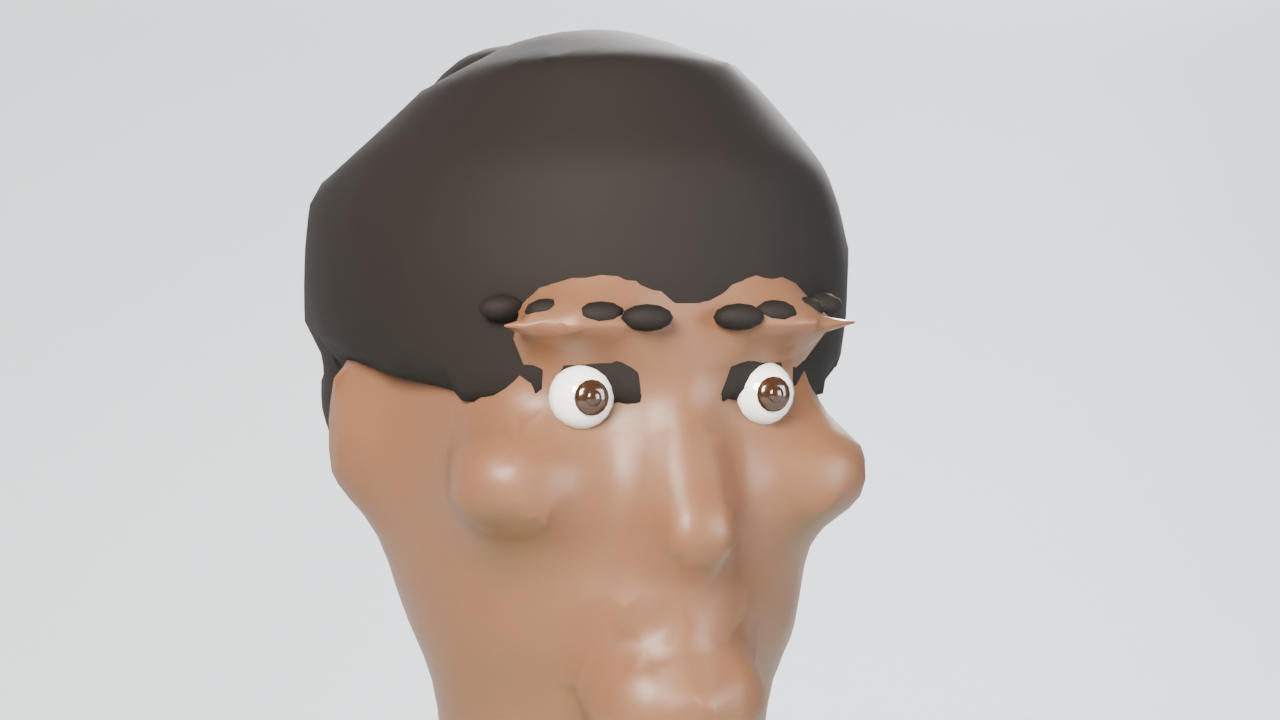
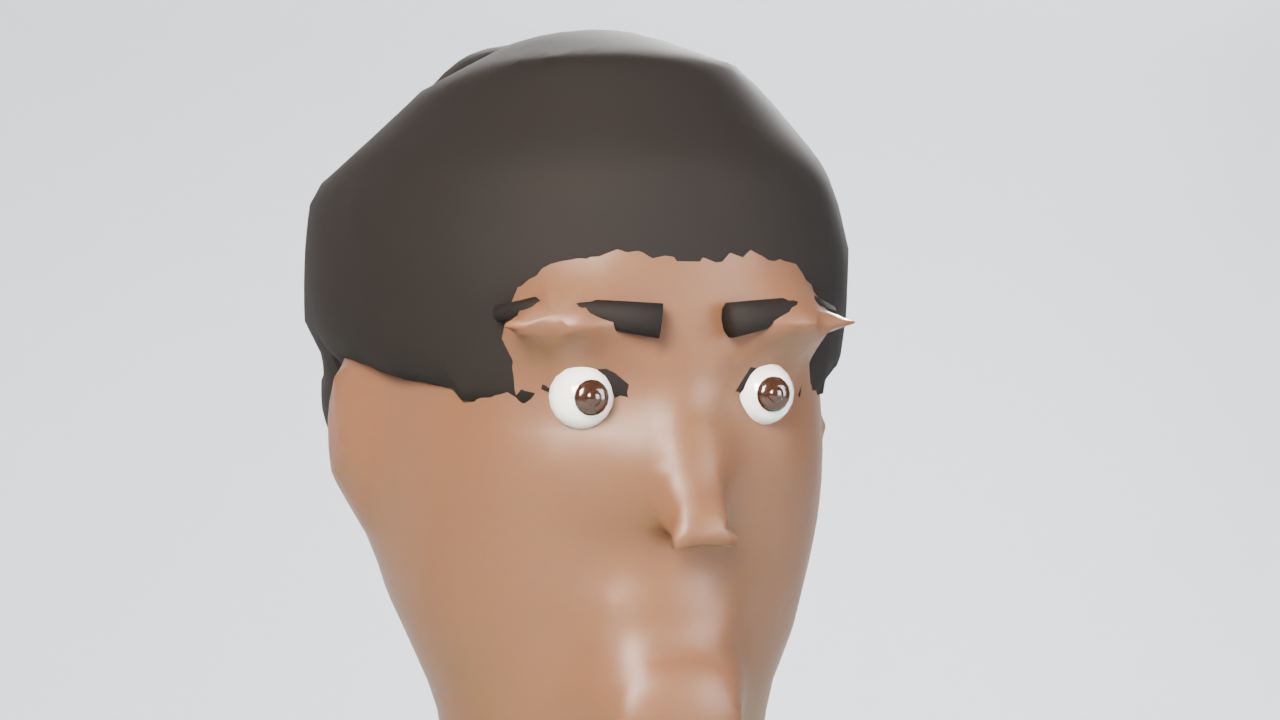
Campaign integration: collage title cards (Swahili pillars 01-03), HOT 70 palette grade, Kigamboni ferry, Inter typography

diff --git a/POSTA_2040/scripts/rendering/brand_cards.py b/POSTA_2040/scripts/rendering/brand_cards.py
@@ -1,0 +1,120 @@
+"""Collage-style title cards in the JIJI IN MOTION campaign look (paint-stroke swooshes in cobalt, orange, yellow, teal;
+bold condensed type with a green highlight block; Swahili + English). Generates animated PNG sequences:
+  renders/card_open/f_####.png   (3.0 s)  — opening title
+  renders/card_close/f_####.png  (5.0 s)  — closing pillars + credit
+Pure Pillow, so it is cheap and crisp. Palette follows the HOT 70 colourways / production palette.
+"""
+import os, math, random, glob
+from PIL import Image, ImageDraw, ImageFont, ImageFilter
+import numpy as np
+ROOT = os.path.abspath(os.path.join(os.path.dirname(__file__), '..', '..'))
+W, H, FPS = 1280, 720, 24
+PAPER = (243, 240, 232); INK = (12, 14, 18); COBALT = (7, 85, 201); ORANGE = (255, 101, 13); YELLOW = (246, 201, 40); TEAL = (0, 198, 168); GREEN = (178, 222, 60); SAGE = (196, 214, 170)
+rng = random.Random(70)
+
+def font(sz, bold=True):
+    cands = glob.glob('/usr/share/fonts/**/InterDisplay-Black.otf', recursive=True) + glob.glob('/usr/share/fonts/**/InterDisplay-ExtraBold.otf', recursive=True) + glob.glob('/usr/share/fonts/**/Inter-Bold.otf', recursive=True) + glob.glob('/usr/share/fonts/**/DejaVuSans-Bold.ttf', recursive=True)
+    return ImageFont.truetype(cands[0], sz)
+
+def paper_texture():
+    im = Image.new('RGB', (W, H), PAPER); a = np.array(im).astype(np.int16)
+    g = np.random.default_rng(1).normal(0, 6, (H, W, 1)).astype(np.int16); a = np.clip(a + g, 0, 255).astype(np.uint8)
+    return Image.fromarray(a)
+
+def swoosh(draw_layer, p0, p1, p2, width, color, progress=1.0, taper=True, speckle=True):
+    """Quadratic bezier brush stroke, drawn with overlapping circles; progress 0..1 reveals the stroke."""
+    n = 260; pts = []
+    for i in range(int(n * progress)):
+        t = i / (n - 1); x = (1 - t) ** 2 * p0[0] + 2 * (1 - t) * t * p1[0] + t ** 2 * p2[0]; y = (1 - t) ** 2 * p0[1] + 2 * (1 - t) * t * p1[1] + t ** 2 * p2[1]
+        w = width * (0.35 + 0.65 * math.sin(math.pi * min(1, t * 1.15))) if taper else width
+        pts.append((x, y, w))
+    for x, y, w in pts:
+        draw_layer.ellipse([x - w / 2, y - w / 2, x + w / 2, y + w / 2], fill=color)
+    if speckle and pts:
+        for x, y, w in pts[::9]:
+            for k in range(3):
+                dx, dy = rng.uniform(-w, w), rng.uniform(-w, w); r = rng.uniform(1, 4)
+                draw_layer.ellipse([x + dx - r, y + dy - r, x + dx + r, y + dy + r], fill=color)
+
+def halftone_band(im, y0, y1, color, spacing=9):
+    d = ImageDraw.Draw(im)
+    for y in range(y0, y1, spacing):
+        t = (y - y0) / max(1, y1 - y0); r = 1.2 + 3.2 * (1 - t)
+        for x in range(0, W, spacing): d.ellipse([x - r, y - r, x + r, y + r], fill=color)
+
+def skyline_silhouette(im, base_y, color, alpha=255, progress=1.0):
+    """Posta 2040 skyline silhouette from the futurised building heights (sampled along x)."""
+    import json
+    prof = os.path.join(ROOT, 'assets', 'textures', 'skyline_profile.json')
+    if os.path.exists(prof): heights = json.load(open(prof))
+    else:
+        rr = random.Random(3); heights = [rr.choice([40, 60, 90, 130, 170, 220, 90, 60, 50]) * rr.uniform(0.7, 1.2) for _ in range(64)]
+    layer = Image.new('RGBA', (W, H), (0, 0, 0, 0)); d = ImageDraw.Draw(layer)
+    n = len(heights); bw = W / n
+    for i, h in enumerate(heights):
+        hh = h * 0.9 * progress; x0 = i * bw
+        d.rectangle([x0 + 1, base_y - hh, x0 + bw - 2, base_y], fill=color + (alpha,))
+        if h > 150: d.polygon([(x0 + bw / 2, base_y - hh - 28 * progress), (x0 + 2, base_y - hh), (x0 + bw - 2, base_y - hh)], fill=color + (alpha,))
+    im.alpha_composite(layer)
+
+def title_block(im, text, xy, size, fill=INK, highlight=None, hl_word=None):
+    d = ImageDraw.Draw(im); f = font(size)
+    if highlight and hl_word and hl_word in text:
+        pre = text[:text.index(hl_word)]; wpre = d.textlength(pre, font=f); whl = d.textlength(hl_word, font=f)
+        d.rectangle([xy[0] + wpre - 6, xy[1] + size * 0.08, xy[0] + wpre + whl + 6, xy[1] + size * 1.0], fill=highlight)
+    d.text(xy, text, font=f, fill=fill)
+
+def ease(t): return 0.5 - 0.5 * math.cos(math.pi * max(0, min(1, t)))
+
+def render_open(out):
+    os.makedirs(out, exist_ok=True); N = int(3.0 * FPS); base = paper_texture().convert('RGBA')
+    for i in range(N):
+        t = i / FPS; im = base.copy(); layer = Image.new('RGBA', (W, H), (0, 0, 0, 0)); d = ImageDraw.Draw(layer)
+        swoosh(d, (-100, 520), (500, 80), (1380, 420), 150, COBALT + (255,), ease(t / 0.9))
+        swoosh(d, (-60, 650), (640, 330), (1340, 600), 70, ORANGE + (255,), ease((t - 0.25) / 0.9))
+        swoosh(d, (200, 760), (700, 560), (1300, 700), 46, YELLOW + (255,), ease((t - 0.45) / 0.8))
+        swoosh(d, (-40, 300), (400, 200), (900, 60), 26, TEAL + (255,), ease((t - 0.6) / 0.7))
+        im.alpha_composite(layer)
+        skyline_silhouette(im, 600, INK, 255, ease((t - 0.8) / 1.0))
+        a = ease((t - 1.3) / 0.7)
+        if a > 0:
+            txt = Image.new('RGBA', (W, H), (0, 0, 0, 0)); title_block(txt, 'JIJI IN MOTION', (70, 70 + int(40 * (1 - a))), 104, INK, GREEN, 'MOTION')
+            ImageDraw.Draw(txt).text((74, 190 + int(40 * (1 - a))), 'THE FUTURE IS BUILT IN CODE', font=font(30), fill=COBALT)
+            ImageDraw.Draw(txt).text((74, 232 + int(40 * (1 - a))), 'Posta · Dar es Salaam · 2040', font=font(22), fill=INK)
+            txt.putalpha(txt.getchannel('A').point(lambda v: int(v * a))); im.alpha_composite(txt)
+        # fade out last 0.4 s to black (next shot opens at ground level)
+        fo = max(0.0, (t - 2.6) / 0.4)
+        if fo: im = Image.blend(im, Image.new('RGBA', (W, H), (0, 0, 0, 255)), fo)
+        im.convert('RGB').save(os.path.join(out, f'f_{i+1:04d}.png'))
+    print('open card', N, 'frames')
+
+def render_close(out):
+    os.makedirs(out, exist_ok=True); N = int(5.0 * FPS); base = paper_texture().convert('RGBA')
+    pillars = [('01', 'MAISHA YA MIJI YA TZ', 'Tanzanian city elements — the real Posta map, Kivukoni, the harbour'),
+               ('02', 'RANGI ZA HOT 70', 'Colour drawn from the Infinix HOT 70 colourways'),
+               ('03', 'MTAZAMO NA UBUNIFU WAKO', 'Personal signature — code, procedural art, Dar es Salaam')]
+    for i in range(N):
+        t = i / FPS; im = base.copy(); layer = Image.new('RGBA', (W, H), (0, 0, 0, 0)); d = ImageDraw.Draw(layer)
+        swoosh(d, (1400, 120), (800, 380), (-100, 240), 120, COBALT + (255,), ease(t / 0.8))
+        swoosh(d, (1340, 700), (700, 500), (-60, 680), 60, ORANGE + (255,), ease((t - 0.2) / 0.8))
+        swoosh(d, (1300, 40), (900, 160), (300, -40), 30, YELLOW + (255,), ease((t - 0.4) / 0.7))
+        im.alpha_composite(layer)
+        halftone_band(im, 560, 720, SAGE)
+        txt = Image.new('RGBA', (W, H), (0, 0, 0, 0)); dd = ImageDraw.Draw(txt)
+        for k, (num, sw, en) in enumerate(pillars):
+            a = ease((t - 0.6 - k * 0.45) / 0.6)
+            if a <= 0: continue
+            y = 90 + k * 140; x = 90 + int(30 * (1 - a))
+            dd.text((x, y), num, font=font(54), fill=[COBALT, ORANGE, TEAL][k]); dd.text((x + 90, y + 4), sw, font=font(40), fill=INK)
+            dd.text((x + 92, y + 58), en, font=font(22), fill=(60, 64, 72))
+            dd.line([(x, y + 110), (x + 900, y + 110)], fill=INK, width=2)
+        a = ease((t - 2.4) / 0.6)
+        if a > 0:
+            title_block(txt, 'JIJI IN MOTION', (90, 540), 64, INK, GREEN, 'MOTION'); dd.text((94, 620), 'A film built in code by tito-devsec  ·  Map data © OpenStreetMap contributors', font=font(20), fill=INK)
+        txt.putalpha(txt.getchannel('A').point(lambda v: int(v * min(1, ease(t / 0.6))))); im.alpha_composite(txt)
+        fi = min(1.0, t / 0.5); im = Image.blend(Image.new('RGBA', (W, H), (0, 0, 0, 255)), im, fi)
+        im.convert('RGB').save(os.path.join(out, f'f_{i+1:04d}.png'))
+    print('close card', N, 'frames')
+
+if __name__ == '__main__':
+    render_open(os.path.join(ROOT, 'renders', 'card_open')); render_close(os.path.join(ROOT, 'renders', 'card_close'))

diff --git a/POSTA_2040/scripts/assets/build_characters.py b/POSTA_2040/scripts/assets/build_characters.py
@@ -17,6 +17,7 @@ OUT_BLEND = os.path.join(ROOT, 'blender', 'assets', 'characters.blend')
 PREV = os.path.join(ROOT, 'previews')
 NORENDER = '--norender' in sys.argv
 QUICK = '--quick' in sys.argv
+LOWS = '--lowsamples' in sys.argv or QUICK
 
 # ----------------------------------------------------------------------------- scene reset
 def reset_scene():
@@ -197,7 +198,7 @@ class Body:
         s = self.s
         self.H = height
         self.z = dict(top=1.75, chin=1.52, jaw=1.56, eye=1.638, nose=1.604, mouth=1.556,
-                      neck_base=1.44, shoulder=1.405, nipple=1.27, waist=1.07, navel=1.04,
+                      neck_base=1.45, shoulder=1.415, nipple=1.27, waist=1.07, navel=1.04,
                       hip=0.90, crotch=0.80, knee=0.47, ankle=0.08, elbow=1.12, wrist=0.845)
         for k in self.z: self.z[k] *= s
         sw = shoulder * (0.93 if female else 1.0)
@@ -283,32 +284,31 @@ def body_shape(B, offset=0.0, parts=('torso', 'arms', 'legs', 'head', 'hands', '
                 S.ellipsoid((sd * 0.078 * s, 0.085 * s, z['nipple'] + 0.005 * s), (0.065 * s + o, 0.055 * s + o, 0.06 * s + o))
         # glutes
         for sd in (-1, 1):
-            S.ellipsoid((sd * 0.085 * s * hw, -0.075 * s, z['hip'] - 0.015 * s), (0.1 * s + o, 0.085 * s + o, 0.11 * s + o))
+            S.ellipsoid((sd * 0.07 * s * hw, -0.07 * s, z['hip'] - 0.015 * s), (0.09 * s + o, 0.085 * s + o, 0.1 * s + o))
         # neck
         S.loft([((0, 0.005 * s, z['neck_base'] - 0.03 * s), 0.065 * s + o, 0.065 * s + o),
                 ((0, 0.01 * s, z['neck_base'] + 0.05 * s), 0.056 * s + o, 0.06 * s + o),
                 ((0, 0.012 * s, z['chin'] + 0.02 * s), 0.06 * s + o, 0.065 * s + o)], segs=24)
     if 'head' in parts:
-        hd = [(z['chin'] - 0.004 * s, 0.034, 0.03, 0.04),
-              (z['chin'] + 0.018 * s, 0.062, 0.062, 0.03),
-              (z['jaw'] + 0.012 * s, 0.073, 0.086, 0.012),
-              (z['nose'], 0.077, 0.096, 0.002),
+        hd = [(z['chin'] - 0.004 * s, 0.034, 0.03, 0.038),
+              (z['chin'] + 0.018 * s, 0.062, 0.06, 0.024),
+              (z['jaw'] + 0.012 * s, 0.074, 0.08, 0.008),
+              (z['nose'], 0.078, 0.092, 0.004),
               (z['eye'], 0.079, 0.1, -0.002),
               (z['eye'] + 0.045 * s, 0.078, 0.099, -0.005),
               (z['top'] - 0.04 * s, 0.07, 0.09, -0.009),
               (z['top'] - 0.012 * s, 0.046, 0.062, -0.013),
               (z['top'], 0.012, 0.016, -0.016)]
-        S.loft([((0, cy * s, zz), rx * s + o, ry * s + o) for (zz, rx, ry, cy) in hd], segs=32)
+        S.loft([((0, cy * s, zz), rx * s * 1.04 + o, ry * s * 1.03 + o) for (zz, rx, ry, cy) in hd], segs=32)
         if offset == 0.0:
             # nose, chin, ears, brow ridge, cheeks
-            S.ellipsoid((0, 0.096 * s, z['nose'] + 0.004 * s), (0.012 * s, 0.016 * s, 0.024 * s), rot=('X', math.radians(-16)))  # nose dorsum
-            S.ellipsoid((0, 0.108 * s, z['nose'] - 0.014 * s), (0.017 * s, 0.013 * s, 0.011 * s))  # tip + alae
-            S.ellipsoid((0, 0.085 * s, z['chin'] + 0.014 * s), (0.034 * s, 0.028 * s, 0.026 * s))  # chin
-            S.ellipsoid((0, 0.09 * s, z['mouth'] - 0.012 * s), (0.028 * s, 0.014 * s, 0.011 * s))  # lower lip
-            S.ellipsoid((0, 0.09 * s, z['mouth'] + 0.009 * s), (0.026 * s, 0.012 * s, 0.008 * s))  # upper lip
+            S.ellipsoid((0, 0.096 * s, z['nose'] + 0.006 * s), (0.011 * s, 0.015 * s, 0.021 * s), rot=('X', math.radians(-18)))  # nose dorsum
+            S.ellipsoid((0, 0.107 * s, z['nose'] - 0.012 * s), (0.016 * s, 0.012 * s, 0.01 * s))  # tip + alae
+            S.ellipsoid((0, 0.072 * s, z['chin'] + 0.012 * s), (0.032 * s, 0.028 * s, 0.024 * s))  # chin
+            S.ellipsoid((0, 0.08 * s, z['mouth'] - 0.011 * s), (0.027 * s, 0.013 * s, 0.01 * s))  # lower lip
+            S.ellipsoid((0, 0.081 * s, z['mouth'] + 0.008 * s), (0.025 * s, 0.011 * s, 0.007 * s))  # upper lip
             for sd in (-1, 1):
                 S.ellipsoid((sd * 0.083 * s, -0.012 * s, z['eye'] - 0.02 * s), (0.012 * s, 0.018 * s, 0.03 * s))  # ear
-                S.ellipsoid((sd * 0.05 * s, 0.07 * s, z['eye'] - 0.03 * s), (0.028 * s, 0.026 * s, 0.022 * s))  # cheekbone (mostly buried)
                 S.ellipsoid((sd * 0.034 * s, 0.09 * s, z['eye'] + 0.02 * s), (0.03 * s, 0.014 * s, 0.009 * s))  # brow ridge
     if 'arms' in parts:
         for sd in (-1, 1):
@@ -363,7 +363,7 @@ def sculpt_face(ob, B):
     s, z = B.s, B.z
     for sd in (-1, 1):
         displace_gaussian(ob, (sd * 0.032 * s, 0.098 * s, z['eye']), (0.018 * s, 0.025 * s, 0.011 * s), 0.009 * s)
-    displace_gaussian(ob, (0, 0.1 * s, z['mouth']), (0.02 * s, 0.025 * s, 0.0035 * s), 0.005 * s)
+    displace_gaussian(ob, (0, 0.092 * s, z['mouth']), (0.02 * s, 0.025 * s, 0.0035 * s), 0.005 * s)
     # temples slightly in, philtrum
     for sd in (-1, 1):
         displace_gaussian(ob, (sd * 0.08 * s, 0.045 * s, z['eye'] + 0.02 * s), (0.02 * s, 0.03 * s, 0.03 * s), 0.004 * s)
@@ -380,10 +380,11 @@ def head_accessories(B, col, prefix, mats, hair='short', female=False):
         S = Shape(); S.ellipsoid((sd * 0.032 * s, 0.0923 * s, z['eye']), (0.006 * s, 0.0025 * s, 0.006 * s), segs=16, rings=8)
         S.ellipsoid((sd * 0.032 * s, 0.094 * s, z['eye']), (0.003 * s, 0.0015 * s, 0.003 * s), segs=12, rings=6)
         iris = S.to_object(f'{prefix}_iris.{nm}', col); shade_smooth(iris); iris.data.materials.append(mats['iris'])
-        S = Shape()
-        for k, bx in enumerate((0.016, 0.03, 0.044, 0.056)):
-            by = 0.1 * s * math.sqrt(max(0.0, 1 - (bx / 0.08) ** 2)) + 0.003 * s
-            S.ellipsoid((sd * bx * s, by, z['eye'] + (0.026 + 0.001 * k) * s), (0.009 * s, 0.006 * s, 0.0045 * s), segs=10, rings=6)
+        S = Shape(); bp = []
+        for k, bx in enumerate((0.012, 0.024, 0.036, 0.048, 0.058)):
+            by = 0.103 * s * math.sqrt(max(0.0, 1 - (bx / 0.083) ** 2)) + 0.001 * s
+            bp.append(((sd * bx * s, by, z['eye'] + (0.025 + 0.0015 * k - 0.004 * (k == 4)) * s), 0.0045 * s, (0.006 - 0.0008 * k) * s))
+        S.loft(bp, segs=10, vhint=(0, 0, 1))
         brow = S.to_object(f'{prefix}_brow.{nm}', col); shade_smooth(brow); brow.data.materials.append(mats['hair'])
         out += [(eye, 'head'), (iris, 'head'), (brow, 'head')]
     # hair cap: loft following the cranium, slightly inflated, hairline pulled back
@@ -515,7 +516,7 @@ def shirt(B, col, prefix, mat, sleeves='short', hem=None, off=0.016, neck=True):
     s, z = B.s, B.z
     hem = hem if hem is not None else z['hip'] - 0.01 * s
     top = z['neck_base'] + (0.012 * s if neck else -0.015 * s)
-    S = torso_shell(Shape(), B, off, hem, top, deltoids=bool(sleeves), breasts=True, hips_extra=0.012 * s)
+    S = torso_shell(Shape(), B, off, hem, top, deltoids=bool(sleeves), breasts=True, hips_extra=0.024 * s)
     ob = S.to_object(f'{prefix}_shirt', col)
     # sleeves
     if sleeves:
@@ -541,7 +542,7 @@ def trousers(B, col, prefix, mat, length=1.0, off=0.012, waist=None):
     S = Shape()
     hw = B.hw
     waist = waist if waist is not None else z['hip'] + 0.09 * s
-    torso_shell(S, B, off * 0.7, z['crotch'] - 0.01 * s, waist, n=8, deltoids=False, breasts=False, hips_extra=0.012 * s)
+    torso_shell(S, B, off, z['crotch'] - 0.01 * s, waist, n=8, deltoids=False, breasts=False, hips_extra=0.02 * s)
     for sd in (-1, 1):
         hp = B.mirror(B.hip, sd); kn = B.mirror(B.knee, sd); an = B.mirror(B.ankle, sd)
         pts = [hp + (kn - hp) * t for t in (0.12, 0.35, 0.6, 1.0)]
@@ -826,7 +827,7 @@ def previews(chars):
     for n, x in zip(order, xs):
         chars[n]['root'].location = (x, 0, 0)
     studio()
-    P.setup_render(res=(1280, 720), samples=16 if QUICK else 48, frame_start=1, frame_end=48)
+    P.setup_render(res=(1280, 720), samples=12 if LOWS else 48, frame_start=1, frame_end=48)
     cam = P.add_camera('CAM_LINEUP', loc=(0, 8.5, 1.35), target=(0, 0, 0.92), lens=42)
     render(os.path.join(PREV, 'asset_characters_lineup.png'), 1)
     # hero walk

diff --git a/POSTA_2040/scripts/common/scene_lib.py b/POSTA_2040/scripts/common/scene_lib.py
@@ -181,6 +181,7 @@ def enable_mist(start=200, depth=1500, color=(0.35, 0.5, 0.8, 1), strength=0.7):
     except Exception:
         glare.threshold = 1.2
     nt.links.new(mix.outputs[0], glare.inputs[0]); nt.links.new(glare.outputs[0], comp.inputs[0])
+    add_grade()
 
 def terrain_urban_material():
     """Urban ground: concrete/paving mixed with grass patches by large-scale noise."""
@@ -197,3 +198,50 @@ def snap_to_road(x, y):
     o = bpy.data.objects['CITY_ROAD']; co = np.empty(len(o.data.vertices) * 3); o.data.vertices.foreach_get('co', co); co = co.reshape(-1, 3)
     co = co[co[:, 2] > 2.5]  # keep land roads only (piers excluded)
     i = np.hypot(co[:, 0] - x, co[:, 1] - y).argmin(); return (float(co[i, 0]), float(co[i, 1]), float(co[i, 2]))
+
+def add_ferry(name='FERRY', start=(60, -60), end=(400, -300), F=200, z=0.4, speed_frames=None):
+    """Kigamboni-style passenger ferry (procedural): white hull, blue band, two-deck superstructure, wheelhouse, funnel.
+    Crosses the harbour from start to end over the scene."""
+    import bmesh
+    from mathutils import Vector
+    bm = bmesh.new()
+    # hull: lofted box with pointed bow
+    L, Wd, Hh = 42.0, 11.0, 3.2
+    hull = bmesh.ops.create_cube(bm, size=1.0)['verts']
+    for v in hull:
+        v.co = Vector((v.co.x * Wd, v.co.y * L, (v.co.z + 0.5) * Hh))
+        if v.co.y > 0: v.co.x *= 0.35; v.co.y += 4.0
+    deck = bmesh.ops.create_cube(bm, size=1.0)['verts']
+    for v in deck: v.co = Vector((v.co.x * Wd * 0.9, v.co.y * L * 0.7 - 2, Hh + (v.co.z + 0.5) * 3.0))
+    deck2 = bmesh.ops.create_cube(bm, size=1.0)['verts']
+    for v in deck2: v.co = Vector((v.co.x * Wd * 0.8, v.co.y * L * 0.55 - 3, Hh + 3.0 + (v.co.z + 0.5) * 2.8))
+    wh = bmesh.ops.create_cube(bm, size=1.0)['verts']
+    for v in wh: v.co = Vector((v.co.x * Wd * 0.5, v.co.y * 6 + 6, Hh + 5.8 + (v.co.z + 0.5) * 2.6))
+    bmesh.ops.create_cone(bm, cap_ends=True, segments=12, radius1=1.0, radius2=0.8, depth=4.0, matrix=__import__('mathutils').Matrix.Translation((0, -9, Hh + 5.8 + 2.0)))
+    me = bpy.data.meshes.new(name); bm.to_mesh(me); bm.free()
+    ob = bpy.data.objects.new(name, me); bpy.context.scene.collection.objects.link(ob)
+    white = P.new_mat('MAT_FerryWhite', (0.85, 0.86, 0.84, 1), 0.4); blue = P.new_mat('MAT_FerryBlue', P.PAL['blue'], 0.4)
+    me.materials.append(white); me.materials.append(blue)
+    for p in me.polygons:
+        c = me.vertices[p.vertices[0]].co.z
+        p.material_index = 1 if c < Hh * 0.6 else 0
+    ang = math.atan2(end[1] - start[1], end[0] - start[0]) - math.pi / 2
+    ob.rotation_euler = (0, 0, ang)
+    ob.location = (start[0], start[1], z); ob.keyframe_insert('location', frame=1)
+    ob.location = (end[0], end[1], z); ob.keyframe_insert('location', frame=speed_frames or F)
+    for fc in ob.animation_data.action.fcurves:
+        for kp in fc.keyframe_points: kp.interpolation = 'LINEAR'
+    # wake: flat white translucent strip trailing the hull
+    bpy.ops.mesh.primitive_plane_add(size=1, location=(0, 0, 0)); wk = bpy.context.object; wk.name = name + '_WAKE'
+    wk.scale = (Wd * 0.8, L * 1.6, 1); wk.location = (0, -L * 1.0, 0.05); wk.parent = ob
+    wk.data.materials.append(P.new_mat('MAT_Wake', (1, 1, 1, 1), 0.6, alpha=0.35))
+    return ob
+
+def add_grade(shadows=(0.98, 1.0, 1.05), midtones=(1.0, 1.0, 1.0), highlights=(1.04, 1.01, 0.96)):
+    """HOT 70 palette grade in the compositor: cool teal-blue shadows, warm highlights. Inserts a Color Balance before the Composite."""
+    sc = bpy.context.scene; sc.use_nodes = True; nt = sc.node_tree
+    comp = next(n for n in nt.nodes if n.type == 'COMPOSITE'); src = comp.inputs[0].links[0].from_socket if comp.inputs[0].links else None
+    if src is None: return
+    cb = nt.nodes.new('CompositorNodeColorBalance'); cb.correction_method = 'LIFT_GAMMA_GAIN'
+    cb.lift = tuple(shadows); cb.gamma = tuple(midtones); cb.gain = tuple(highlights)
+    nt.links.new(src, cb.inputs['Image']); nt.links.new(cb.outputs[0], comp.inputs[0])

diff --git a/POSTA_2040/scripts/rendering/edit_film.py b/POSTA_2040/scripts/rendering/edit_film.py
@@ -12,16 +12,19 @@ XF = 0.5  # crossfade seconds between scenes
 def run(cmd): print(' '.join(cmd) if isinstance(cmd, list) else cmd); subprocess.run(cmd, check=True)
 
 clips = []
-for s in cfg['scenes']:
+# title cards (pre-rendered at 24 fps by brand_cards.py) bracket the film
+cards = [{'id': 'card_open', 'title': 'Opening card', 'frames': 72}] + cfg['scenes'] + [{'id': 'card_close', 'title': 'Closing card', 'frames': 120}]
+for s in cards:
     d = os.path.join(R, s['id']); frames = sorted(glob.glob(os.path.join(d, 'f_*.png')))
+    this_step = 1 if s['id'].startswith('card') else step
     if not frames: print('MISSING', s['id']); continue
     lst = os.path.join(TMP, f"{s['id']}.txt")
     with open(lst, 'w') as f:
-        for p in frames: f.write(f"file '{p}'\nduration {step / FPS}\n")
+        for p in frames: f.write(f"file '{p}'\nduration {this_step / FPS}\n")
         f.write(f"file '{frames[-1]}'\n")
     out = os.path.join(TMP, f"{s['id']}.mp4")
     vf = f"scale={W}:{H}:flags=lanczos,format=yuv420p"
-    if step > 1: vf = f"minterpolate=fps={FPS}:mi_mode=mci:mc_mode=aobmc:me_mode=bidir:vsbmc=1," + vf
+    if this_step > 1: vf = f"minterpolate=fps={FPS}:mi_mode=mci:mc_mode=aobmc:me_mode=bidir:vsbmc=1," + vf
     run(['ffmpeg', '-y', '-loglevel', 'error', '-f', 'concat', '-safe', '0', '-i', lst, '-vf', vf, '-r', str(FPS), '-c:v', 'libx264', '-preset', 'medium', '-crf', '17', out])
     clips.append((s, out))
 
@@ -52,7 +55,7 @@ plan = [  # (stem, scene id, offset within scene, gain dB)
     ('stems/s08_camera_ui.wav', 's08', 1.0, -10), ('stems/s08_lens_dive.wav', 's08', 5.5, -6),
     ('stems/s10_fall_splash.wav', 's10', 0.0, -6), ('stems/s11_underwater.wav', 's11', 0.0, -7),
     ('stems/s12_diver.wav', 's12', 0.0, -7), ('stems/s13_ui_share.wav', 's13', 2.0, -10), ('stems/s14_brand_sting.wav', 's14', 0.0, -4),
-    ('music/music_bed.wav', 's01', 0.0, -9),
+    ('music/music_bed.wav', 'card_open', 0.0, -9),
 ]
 ain = []; af = []; mixin = []
 for i, (stem, sid, off, g) in enumerate(plan):

diff --git a/POSTA_2040/scripts/common/posta_lib.py b/POSTA_2040/scripts/common/posta_lib.py
@@ -6,7 +6,7 @@ from mathutils import Vector
 
 ROOT = os.path.abspath(os.path.join(os.path.dirname(__file__), '..', '..'))
 FONT_MONO = '/usr/share/fonts/truetype/jetbrains-mono/JetBrainsMono-Bold.ttf'
-FONT_SANS = '/usr/share/fonts/truetype/inter/InterDisplay-Bold.ttf'
+FONT_SANS = '/usr/share/fonts/opentype/inter/InterDisplay-Bold.otf'
 
 def hex2rgb(h, a=1.0):
     h = h.lstrip('#'); r, g, b = (int(h[i:i+2], 16) / 255 for i in (0, 2, 4))
@@ -23,7 +23,7 @@ def find_font(candidates):
     for c in candidates:
         if os.path.exists(c): return c
     import glob
-    for pat in ('/usr/share/fonts/**/*JetBrainsMono*Bold*.ttf', '/usr/share/fonts/**/*Inter*Bold*.ttf', '/usr/share/fonts/**/DejaVuSans-Bold.ttf'):
+    for pat in ('/usr/share/fonts/**/*JetBrainsMono*Bold*.ttf', '/usr/share/fonts/**/InterDisplay-Bold.otf', '/usr/share/fonts/**/Inter-Bold.otf', '/usr/share/fonts/**/DejaVuSans-Bold.ttf'):
         g = glob.glob(pat, recursive=True)
         if g: return g[0]
     return None

diff --git a/POSTA_2040/scripts/rendering/overlay_ui.py b/POSTA_2040/scripts/rendering/overlay_ui.py
@@ -6,7 +6,7 @@ from PIL import Image, ImageDraw, ImageFont, ImageFilter
 ROOT = os.path.abspath(os.path.join(os.path.dirname(__file__), '..', '..'))
 mode, src, dst = sys.argv[1], sys.argv[2], sys.argv[3]; os.makedirs(dst, exist_ok=True)
 def font(sz, bold=True):
-    for p in ('/usr/share/fonts/truetype/inter/Inter-SemiBold.ttf', '/usr/share/fonts/truetype/inter/InterDisplay-SemiBold.ttf', '/usr/share/fonts/truetype/dejavu/DejaVuSans-Bold.ttf'):
+    for p in ('/usr/share/fonts/opentype/inter/Inter-SemiBold.otf', '/usr/share/fonts/opentype/inter/InterDisplay-SemiBold.otf', '/usr/share/fonts/truetype/dejavu/DejaVuSans-Bold.ttf'):
         if os.path.exists(p): return ImageFont.truetype(p, sz)
     import glob as g
     c = g.glob('/usr/share/fonts/**/*Inter*', recursive=True) or g.glob('/usr/share/fonts/**/DejaVuSans-Bold.ttf', recursive=True)

diff --git a/POSTA_2040/scripts/scenes/s06.py b/POSTA_2040/scripts/scenes/s06.py
@@ -24,6 +24,7 @@ def build(scn, quality):
     S.fresh(); F = scn['frames']
     objs = S.load_city('binary', crop=((50, 60), 900), future=True); S.ocean_material_upgrade(dusk=False)
     S.apply_future_materials(objs); S.terrain_urban_material()
+    S.add_ferry(start=(120, -40), end=(520, -420), F=F)
     # the dissolving materials are replaced by future ones; binary modifier runs backwards so glyphs resolve into glass and steel
     b = objs['CITY_BUILDING']; mb = P.apply_binary(b, progress=1.0, density=0.15, size=1.4, noise_scale=0.02, seed=3, height_bias=0.5, band=0.15)
     S.key_progress(mb, [(1, 1.0), (int(F * 0.45), 0.0), (F, 0.0)]); S.drive_flow(mb, speed=0.8)

diff --git a/POSTA_2040/scripts/common/tree_lib.py b/POSTA_2040/scripts/common/tree_lib.py
@@ -52,7 +52,7 @@ def clear_real_trees_near(points, radius=12.0, collection='CITY_TREES_REAL'):
     pts = [Vector((p[0], p[1])) for p in points]
     removed = 0
     for o in tree_instances(collection):
-        xy = Vector((o.matrix_world.translation.x, o.matrix_world.translation.y))
+        xy = Vector((o.location.x, o.location.y))  # instances are unparented; matrix_world may be stale before a depsgraph update
         if any((xy - p).length < radius for p in pts):
             bpy.data.objects.remove(o); removed += 1
     return removed
